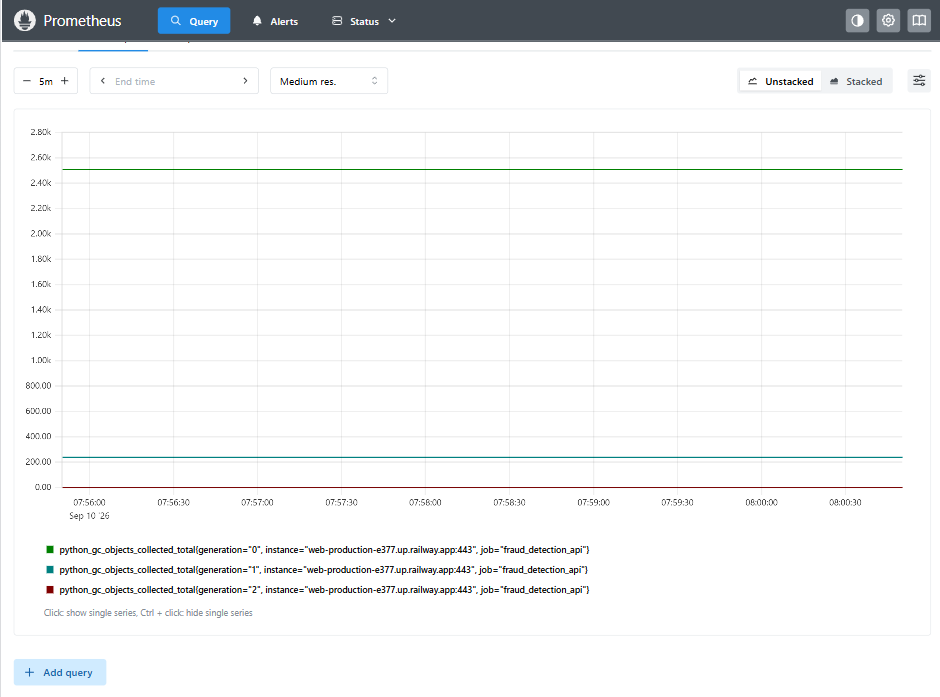
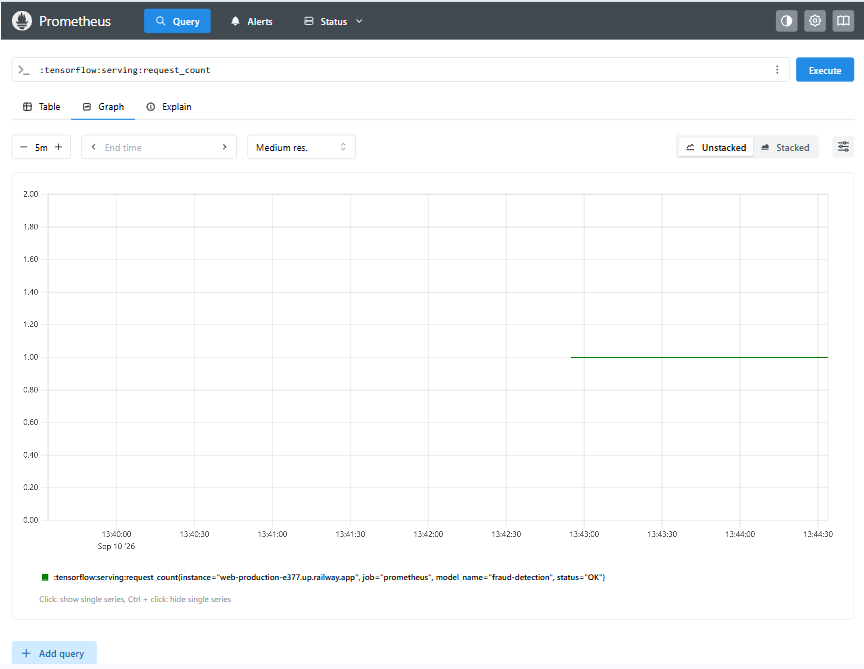
Fix Submission

diff --git a/README.md b/README.md
@@ -1,69 +1,17 @@
-<<<<<<< HEAD
-# Submission 1: Deteksi Fraud Transaksi Kartu Kredit
+# Submission MLOps: Deteksi Fraud Transaksi Kartu Kredit
 
-Nama: Rudy Wijaya
+Nama: Rudy Wijaya  
+Username dicoding: rudy_wijaya_7Xnd
 
-Username Dicoding: `rudy_wijaya_7Xnd`
-
-## Struktur Project
-
-```text
-data/                         Dataset CSV
-src/                          Module Transform, Tuner, dan Trainer
-notebooks/                    Notebook pipeline dan pengujian serving
-deployment/                   Docker Compose dan konfigurasi TensorFlow Serving
-schema_pipeline/              Artefak pipeline dan ML Metadata
-serving_model/                SavedModel hasil Pusher
-submission/                   Arsip submission
-requirements.txt              Dependensi Python
-```
-
-|                         | Deskripsi                                                                                                                                                                                                                                                                                                                                                                                                                                                                                                                                                                                                                                                                                                            |
-| ----------------------- | -------------------------------------------------------------------------------------------------------------------------------------------------------------------------------------------------------------------------------------------------------------------------------------------------------------------------------------------------------------------------------------------------------------------------------------------------------------------------------------------------------------------------------------------------------------------------------------------------------------------------------------------------------------------------------------------------------------------- |
-| Dataset                 | [Credit Card Fraud Detection](https://www.kaggle.com/datasets/mlg-ulb/creditcardfraud). Dataset berisi transaksi kartu kredit dengan 284.807 baris dan 31 kolom. Fitur terdiri dari `Time`, `Amount`, `V1` sampai `V28`, serta label `Class`.                                                                                                                                                                                                                                                                                                                                                                                                                                                                        |
-| Masalah                 | Transaksi fraud jumlahnya sangat sedikit dibandingkan transaksi normal. Dari seluruh data, terdapat 492 transaksi fraud dan 284.315 transaksi normal, sehingga proporsi fraud hanya sekitar 0,17%. Tantangannya adalah menemukan transaksi fraud sebanyak mungkin tanpa menganggap terlalu banyak transaksi normal sebagai fraud.                                                                                                                                                                                                                                                                                                                                                                                    |
-| Solusi machine learning | Solusi yang dibuat adalah model klasifikasi biner berbasis neural network. Pipeline menggunakan TFX Tuner untuk memilih hidden units, dropout, dan learning rate berdasarkan PR-AUC, lalu model dideploy melalui TensorFlow Serving.                                                                                                                                                                                                                                                                                                                                                                                                                                                                                 |
-| Target                  | Target utama adalah memperoleh recall minimal 0,90 agar sebagian besar transaksi fraud dapat ditemukan. Model juga diharapkan memiliki PR-AUC yang baik karena metrik ini lebih sesuai untuk dataset dengan ketidakseimbangan kelas yang besar.                                                                                                                                                                                                                                                                                                                                                                                                                                                                      |
-| Metode pengolahan       | Data dibaca menggunakan `CsvExampleGen`, kemudian dianalisis dengan `StatisticsGen`, dibuatkan skema menggunakan `SchemaGen`, dan diperiksa anomali dengan `ExampleValidator`. Seluruh fitur numerik dinormalisasi menggunakan z-score melalui TensorFlow Transform. Data hasil transformasi disimpan dalam TFRecord terkompresi dan digunakan oleh Trainer. Karena jumlah fraud jauh lebih sedikit, kelas fraud diberi bobot 578 sedangkan kelas normal diberi bobot 1.                                                                                                                                                                                                                                             |
-| Arsitektur model        | Model menerima 30 fitur numerik, yaitu `V1` sampai `V28`, `Amount`, dan `Time`. Semua input digabungkan, lalu diproses oleh Dense layer berukuran 64 neuron dengan aktivasi ReLU, Dropout 20%, Dense layer berukuran 32 neuron dengan aktivasi ReLU, Dropout 20%, dan output satu neuron dengan aktivasi sigmoid. Model dilatih menggunakan optimizer Adam dengan learning rate 0,001 dan binary cross-entropy sebagai loss.                                                                                                                                                                                                                                                                                         |
-| Metrik evaluasi         | Metrik yang digunakan adalah recall, precision, PR-AUC, binary accuracy, loss, dan jumlah contoh evaluasi. Recall dipakai untuk memastikan transaksi fraud tidak banyak terlewat, sedangkan precision dan PR-AUC membantu melihat kualitas prediksi pada kondisi kelas yang tidak seimbang. TFX Evaluator menetapkan batas minimal recall sebesar 0,90 sebelum model dapat berstatus blessed.                                                                                                                                                                                                                                                                                                                        |
-| Performa model          | Berdasarkan hasil evaluasi TFMA pada 95.286 data evaluasi, model memperoleh recall **0,9500**, PR-AUC **0,7146**, precision **0,0553**, binary accuracy **0,9692**, dan loss **0,1184**. Recall sebesar 0,95 berhasil melewati target minimal 0,90, sehingga model memenuhi kriteria utama untuk menemukan transaksi fraud. Namun, precision yang masih sekitar 5,53% menunjukkan bahwa banyak transaksi yang diprediksi fraud ternyata bukan fraud atau terjadi false positive. Model sudah cocok sebagai penyaring awal untuk memberi tanda pada transaksi mencurigakan, tetapi masih perlu penyempurnaan threshold dan analisis lanjutan sebelum digunakan sebagai keputusan otomatis tanpa pemeriksaan tambahan. |
-
-## Alur Pipeline
-
-Pipeline dibuat dengan komponen TFX berikut:
-
-1. `CsvExampleGen` membaca dataset CSV.
-2. `StatisticsGen` menghasilkan ringkasan statistik data.
-3. `SchemaGen` menyusun skema fitur dan label.
-4. `ExampleValidator` memeriksa anomali pada dataset.
-5. `Transform` menormalisasi fitur numerik dan menyimpan transform graph.
-6. `Tuner` mencari hyperparameter terbaik berdasarkan PR-AUC.
-7. `Trainer` melatih model neural network menggunakan artefak `best_hyperparameters`.
-8. `Resolver` mencari model blessed sebelumnya sebagai baseline.
-9. `Evaluator` membandingkan performa model dengan kriteria yang ditentukan.
-10. `Pusher` mengekspor model yang lolos evaluasi ke folder serving.
-11. TensorFlow Serving memuat model berversi melalui Docker Compose.
-
-## Kesimpulan
-
-Model berhasil mencapai recall 95% dan melewati target yang ditentukan. Hasil ini menunjukkan bahwa model cukup baik dalam menangkap transaksi fraud, tetapi precision yang rendah masih menjadi perhatian utama. Pengembangan berikutnya dapat berfokus pada pemilihan threshold yang lebih sesuai, penanganan false positive, dan evaluasi tambahan pada data transaksi terbaru.
-
-## Deployment TensorFlow Serving
-
-Setelah pipeline selesai dan Pusher menghasilkan SavedModel, jalankan:
-
-```powershell
-docker compose -f deployment/docker-compose.serving.yml up -d
-```
-
-REST API tersedia di `http://localhost:8501/v1/models/fraud_detection:predict`. Notebook `notebooks/rudy_wijaya_7Xnd-testing.ipynb` menyiapkan payload `instances` dan menguji endpoint tersebut. Deployment ini adalah TensorFlow Serving, bukan custom Flask server.
-
-Untuk menghentikan service:
-
-```powershell
-docker compose -f deployment/docker-compose.serving.yml down
-```
-=======
-# tfx-fraud-detection-mlops
->>>>>>> 596f62f687465b3d65a965ce57bd8184b6bbe6e2
+| Kriteria                    | Deskripsi                                                                                                                                                                                                                                                                                                                                                                                |
+| :-------------------------- | :--------------------------------------------------------------------------------------------------------------------------------------------------------------------------------------------------------------------------------------------------------------------------------------------------------------------------------------------------------------------------------------- |
+| **Deskripsi Dataset**       | [Credit Card Fraud Detection](https://www.kaggle.com/datasets/mlg-ulb/creditcardfraud). Dataset berisi transaksi kartu kredit dengan 284.807 baris dan 31 kolom (`Time`, `Amount`, `V1` sampai `V28`, serta label `Class`).                                                                                                                                                              |
+| **Masalah**                 | Transaksi fraud jumlahnya sangat sedikit dibandingkan transaksi normal. Dari seluruh data, terdapat 492 transaksi fraud dan 284.315 transaksi normal (proporsi fraud hanya 0,17%). Tantangannya adalah menemukan transaksi fraud sebanyak mungkin tanpa menganggap terlalu banyak transaksi normal sebagai fraud (_false positive_).                                                     |
+| **Solusi machine learning** | Solusi klasifikasi biner berbasis Neural Network menggunakan TFX Pipeline. Pipeline memanfaatkan `Tuner` untuk memilih _hidden units_, _dropout_, dan _learning rate_ berdasarkan metrik PR-AUC, lalu model dideploy menggunakan **TensorFlow Serving**.                                                                                                                                 |
+| **Metode pengolahan**       | Data dibaca menggunakan `CsvExampleGen`, dianalisis dengan `StatisticsGen`, dibuatkan skema menggunakan `SchemaGen`, dan diperiksa anomali dengan `ExampleValidator`. Seluruh fitur numerik dinormalisasi menggunakan _z-score_ melalui TensorFlow Transform (`Transform`). Keseimbangan kelas ditangani dengan pemberian _class weight_ 578 untuk kelas fraud dan 1 untuk kelas normal. |
+| **Arsitektur model**        | Model menerima 30 fitur numerik input (`V1` sampai `V28`, `Amount`, `Time`). Input diproses oleh `Dense(64, activation='relu')`, `Dropout(0.2)`, `Dense(32, activation='relu')`, `Dropout(0.2)`, dan `Dense(1, activation='sigmoid')`. Dilatih menggunakan optimizer Adam (_learning rate_ 0,001) dan _binary cross-entropy loss_.                                                       |
+| **Metrik evaluasi**         | Metrik yang digunakan adalah Recall, Precision, PR-AUC, Binary Accuracy, dan Loss yang dihitung menggunakan TFMA (TensorFlow Model Analysis). Target utama adalah memperoleh Recall minimal 0,90 agar transaksi fraud tidak terlewat.                                                                                                                                                    |
+| **Performa model**          | Berdasarkan hasil evaluasi TFMA pada 95.286 data uji, model memperoleh **Recall: 0,9500**, **PR-AUC: 0,7146**, **Precision: 0,0553**, **Binary Accuracy: 0,9692**, dan **Loss: 0,1184**. Recall sebesar 0,95 berhasil melampaui target minimal 0,90.                                                                                                                                     |
+| **Opsi deployment**         | Model dideploy secara independen menggunakan **TensorFlow Serving** berbasis Docker container di platform cloud Railway.                                                                                                                                                                                                                                                                 |
+| **Web app**                 | Tautan endpoint metadata: `https://web-production-e377.up.railway.app/v1/models/fraud-detection/metadata`                                                                                                                                                                                                                                                                                |
+| **Monitoring**              | Monitoring dilakukan menggunakan **Prometheus** dan **Grafana** yang men-scrape metrik _native_ TF Serving di path `/monitoring/prometheus/metrics`. Visualisasi pada dashboard berfokus pada metrik `:tensorflow:serving:request_count` dan latensi _request_.                                                                                                                          |
